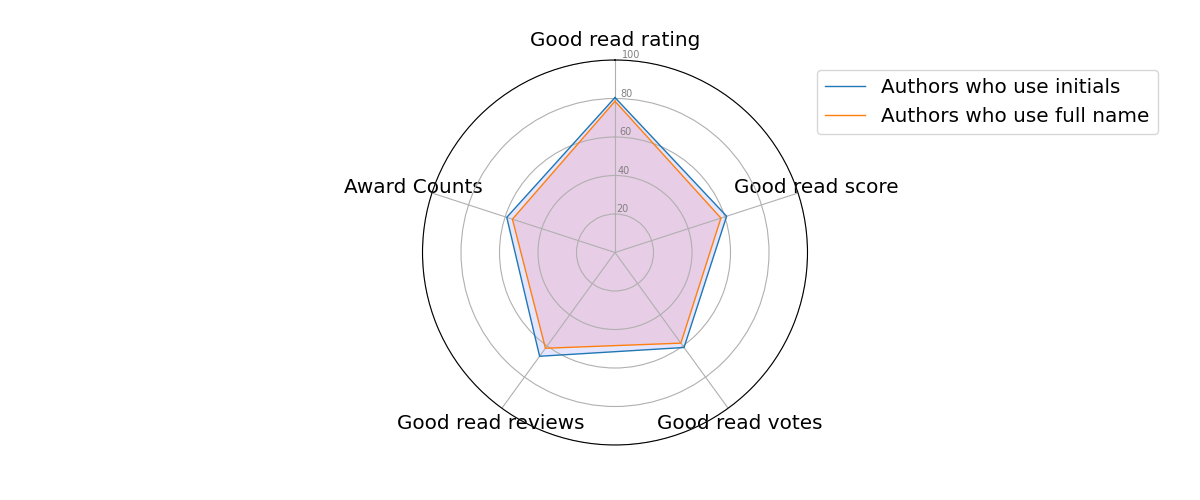
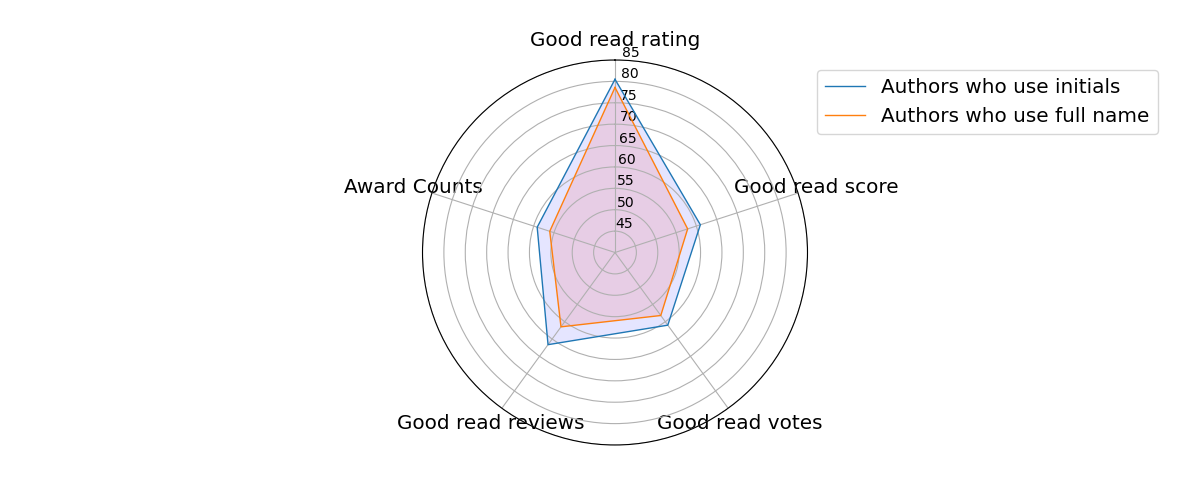
Updated lims on author alias graph

diff --git a/data_analyzer.py b/data_analyzer.py
@@ -237,8 +237,8 @@ def author_alias(adf):
 
     # Draw ylabels
     ax.set_rlabel_position(2)
-    plt.yticks([20,40,60,80,100], color="grey", size=7)
-    plt.ylim(0,100)
+    #plt.yticks([20,40,60,80,100], color="grey", size=7)
+    plt.ylim(40,85)
     plt.xticks(fontsize="x-large")
     plt.title("Author Full Names Vs Use of Initials\n", fontsize="xx-large")
     # ------- PART 2: Add plots
